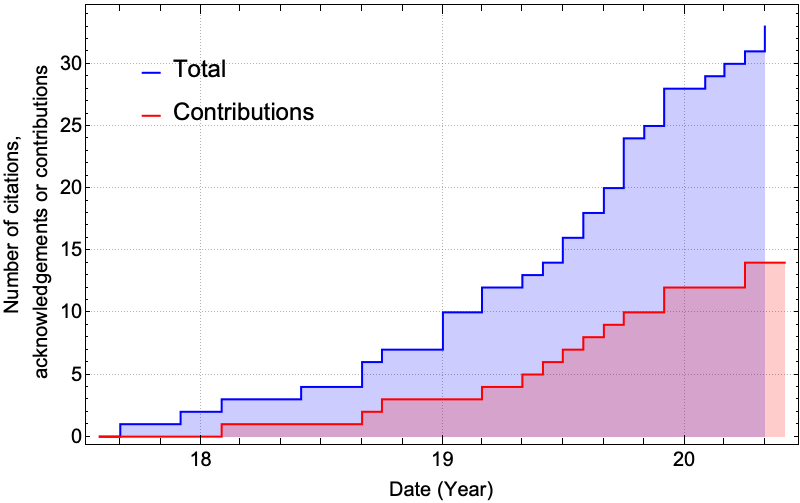
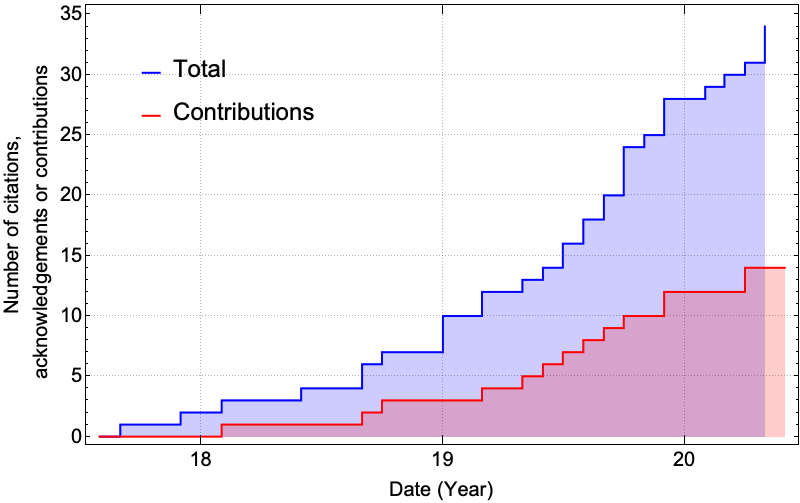
Add paper that acknowledges the Toolkit

diff --git a/users.md b/users.md
@@ -19,6 +19,8 @@ The graph below show the accumulated citations to the Toolkit over time. The blu
 
 Below is a list of research papers that have used or extended the Toolkit. Papers that have contributed code or data to the Toolkit have a (*) after them.
 
+34\. "Modeling and detecting resonant tides of exotic compact objects", Kwinten Fransen, Gideon Koekoek, Rob Tielemans, Bert Vercnocke, [arXiv:2005.12286](https://arxiv.org/abs/2005.12286), 
+
 33\. "Ringing of rotating black holes in higher-derivative gravity", Pablo A. Cano, Kwinten Fransen, Thomas Hertog, [arXiv:2005.03671](https://arxiv.org/abs/2005.03671)
 
 32\. "Determination of new coefficients in the angular momentum and energy fluxes at infinity to 9PN for eccentric Schwarzschild extreme-mass-ratio inspirals using mode-by-mode fitting", Christopher Munna, Charles R. Evans, Seth Hopper, Erik Forseth, [arXiv:2005.03044](https://arxiv.org/abs/2005.03044) (*)  
